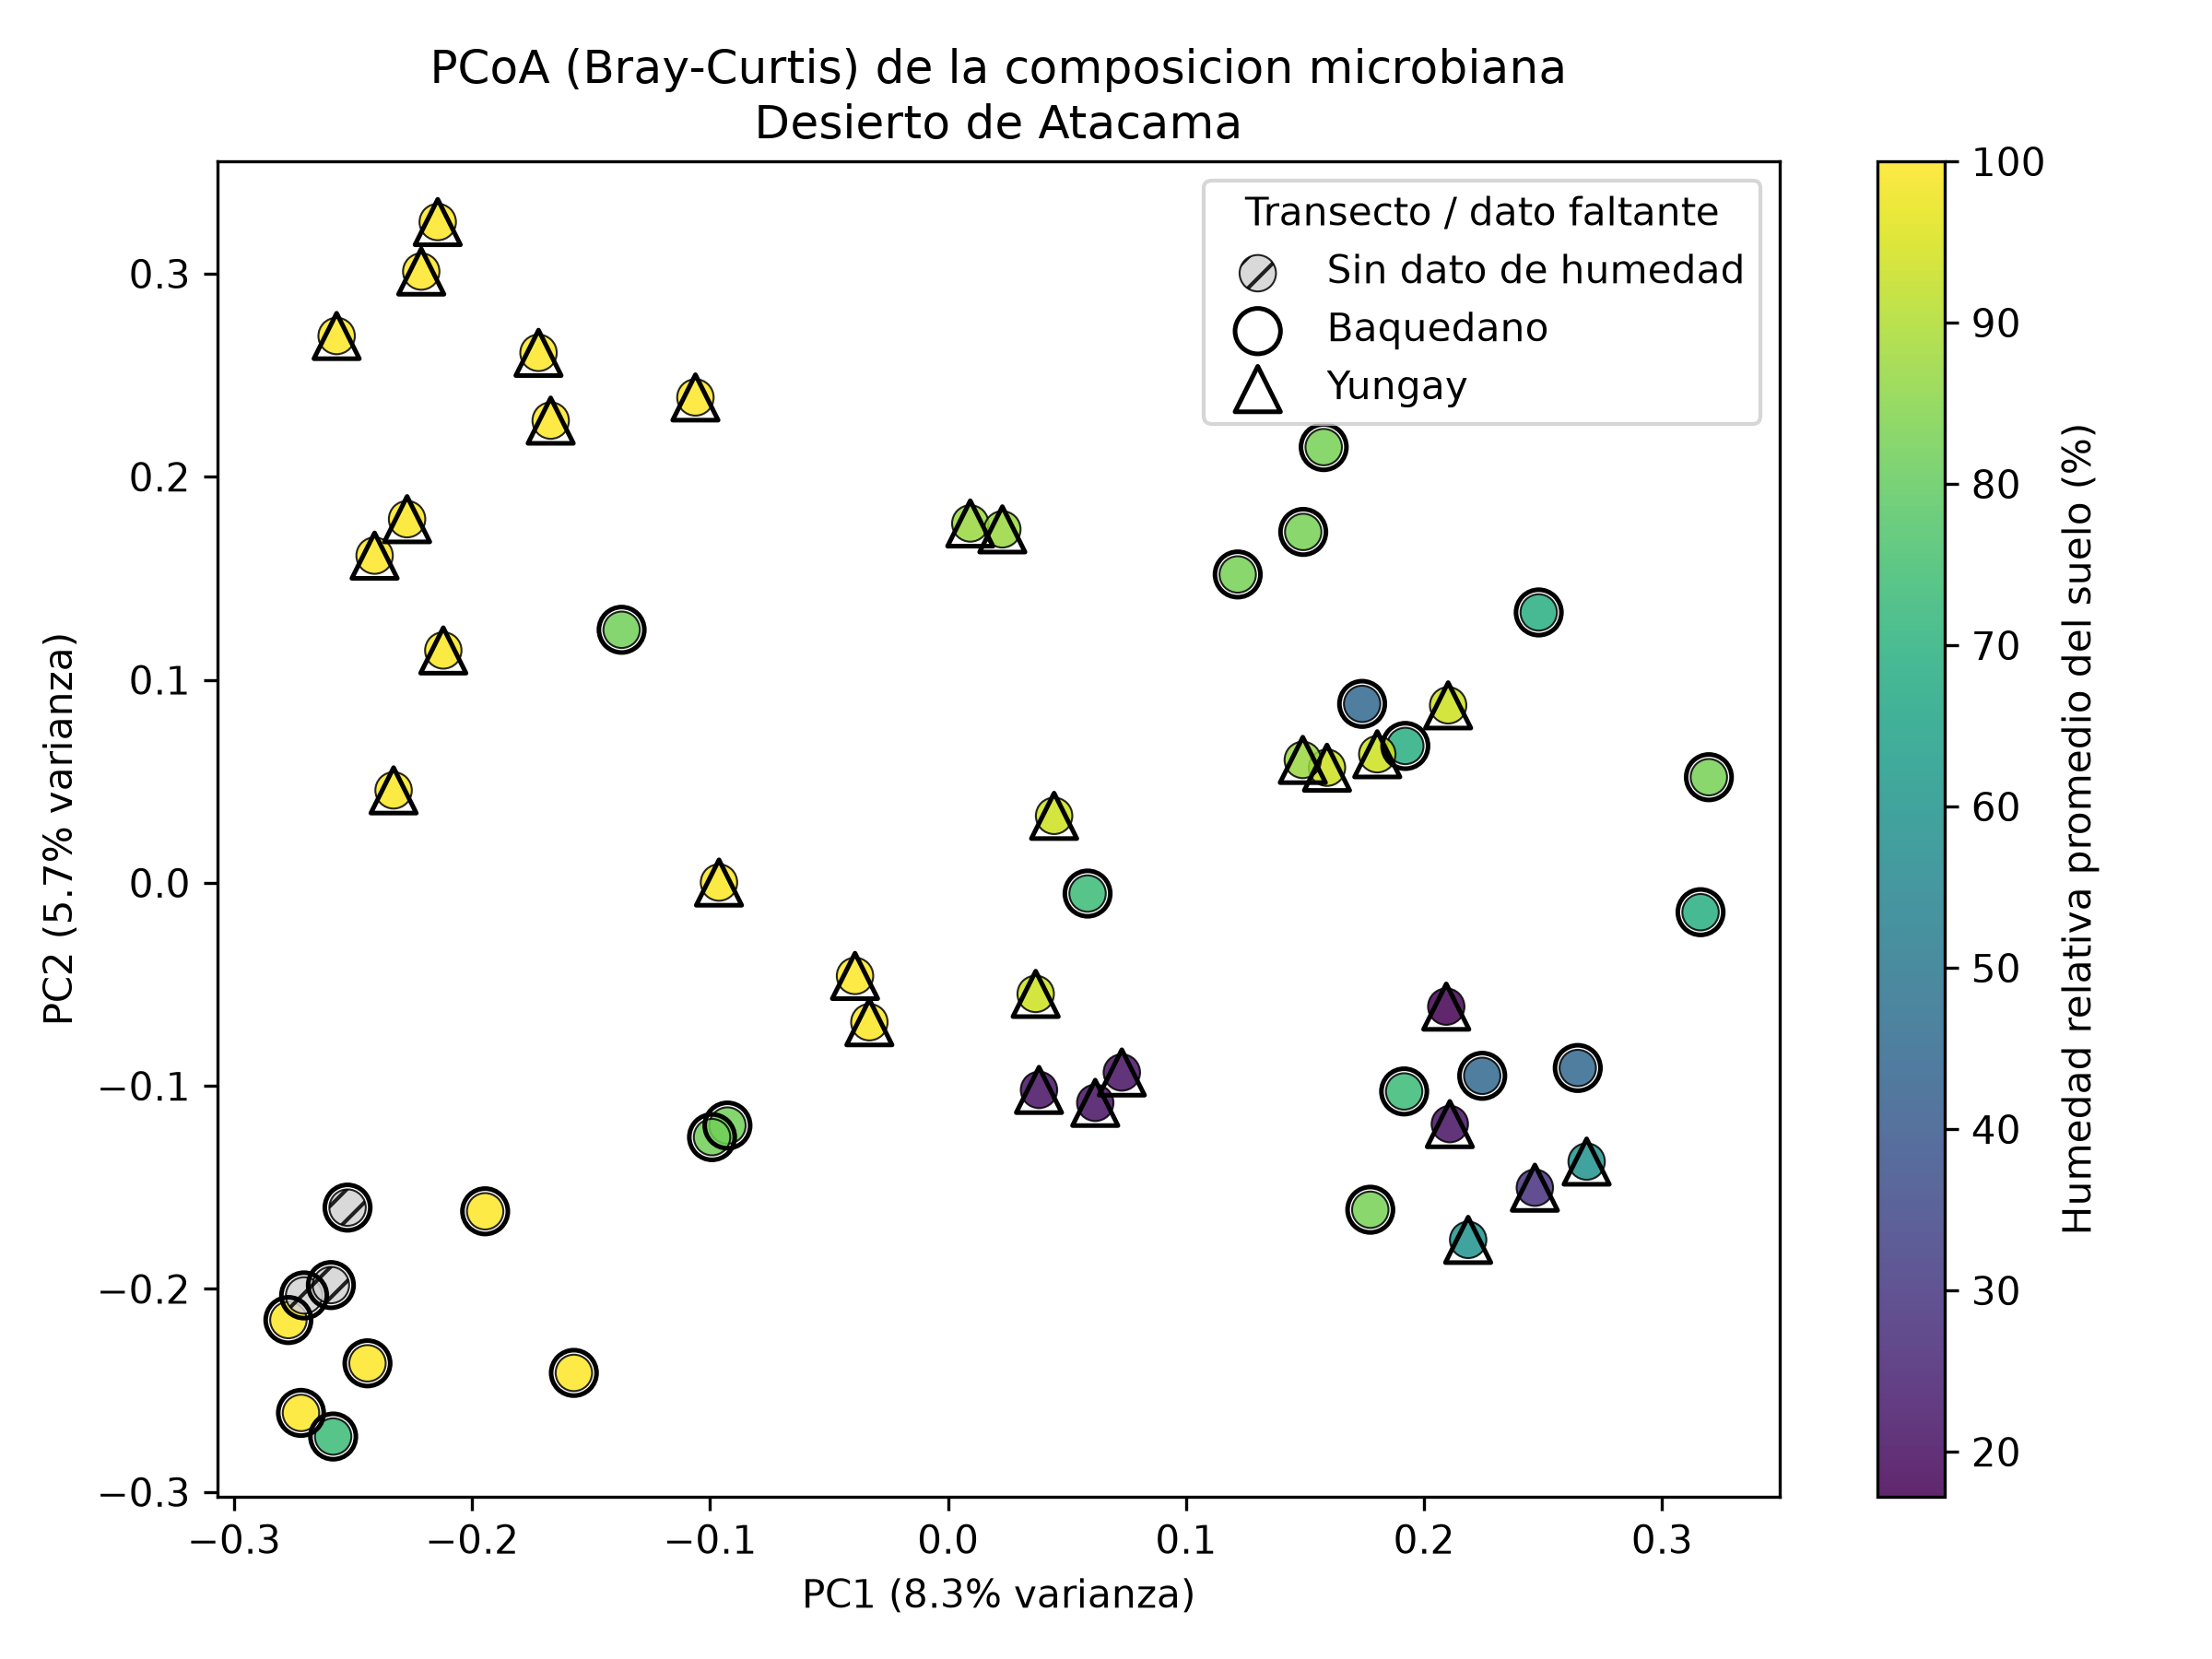
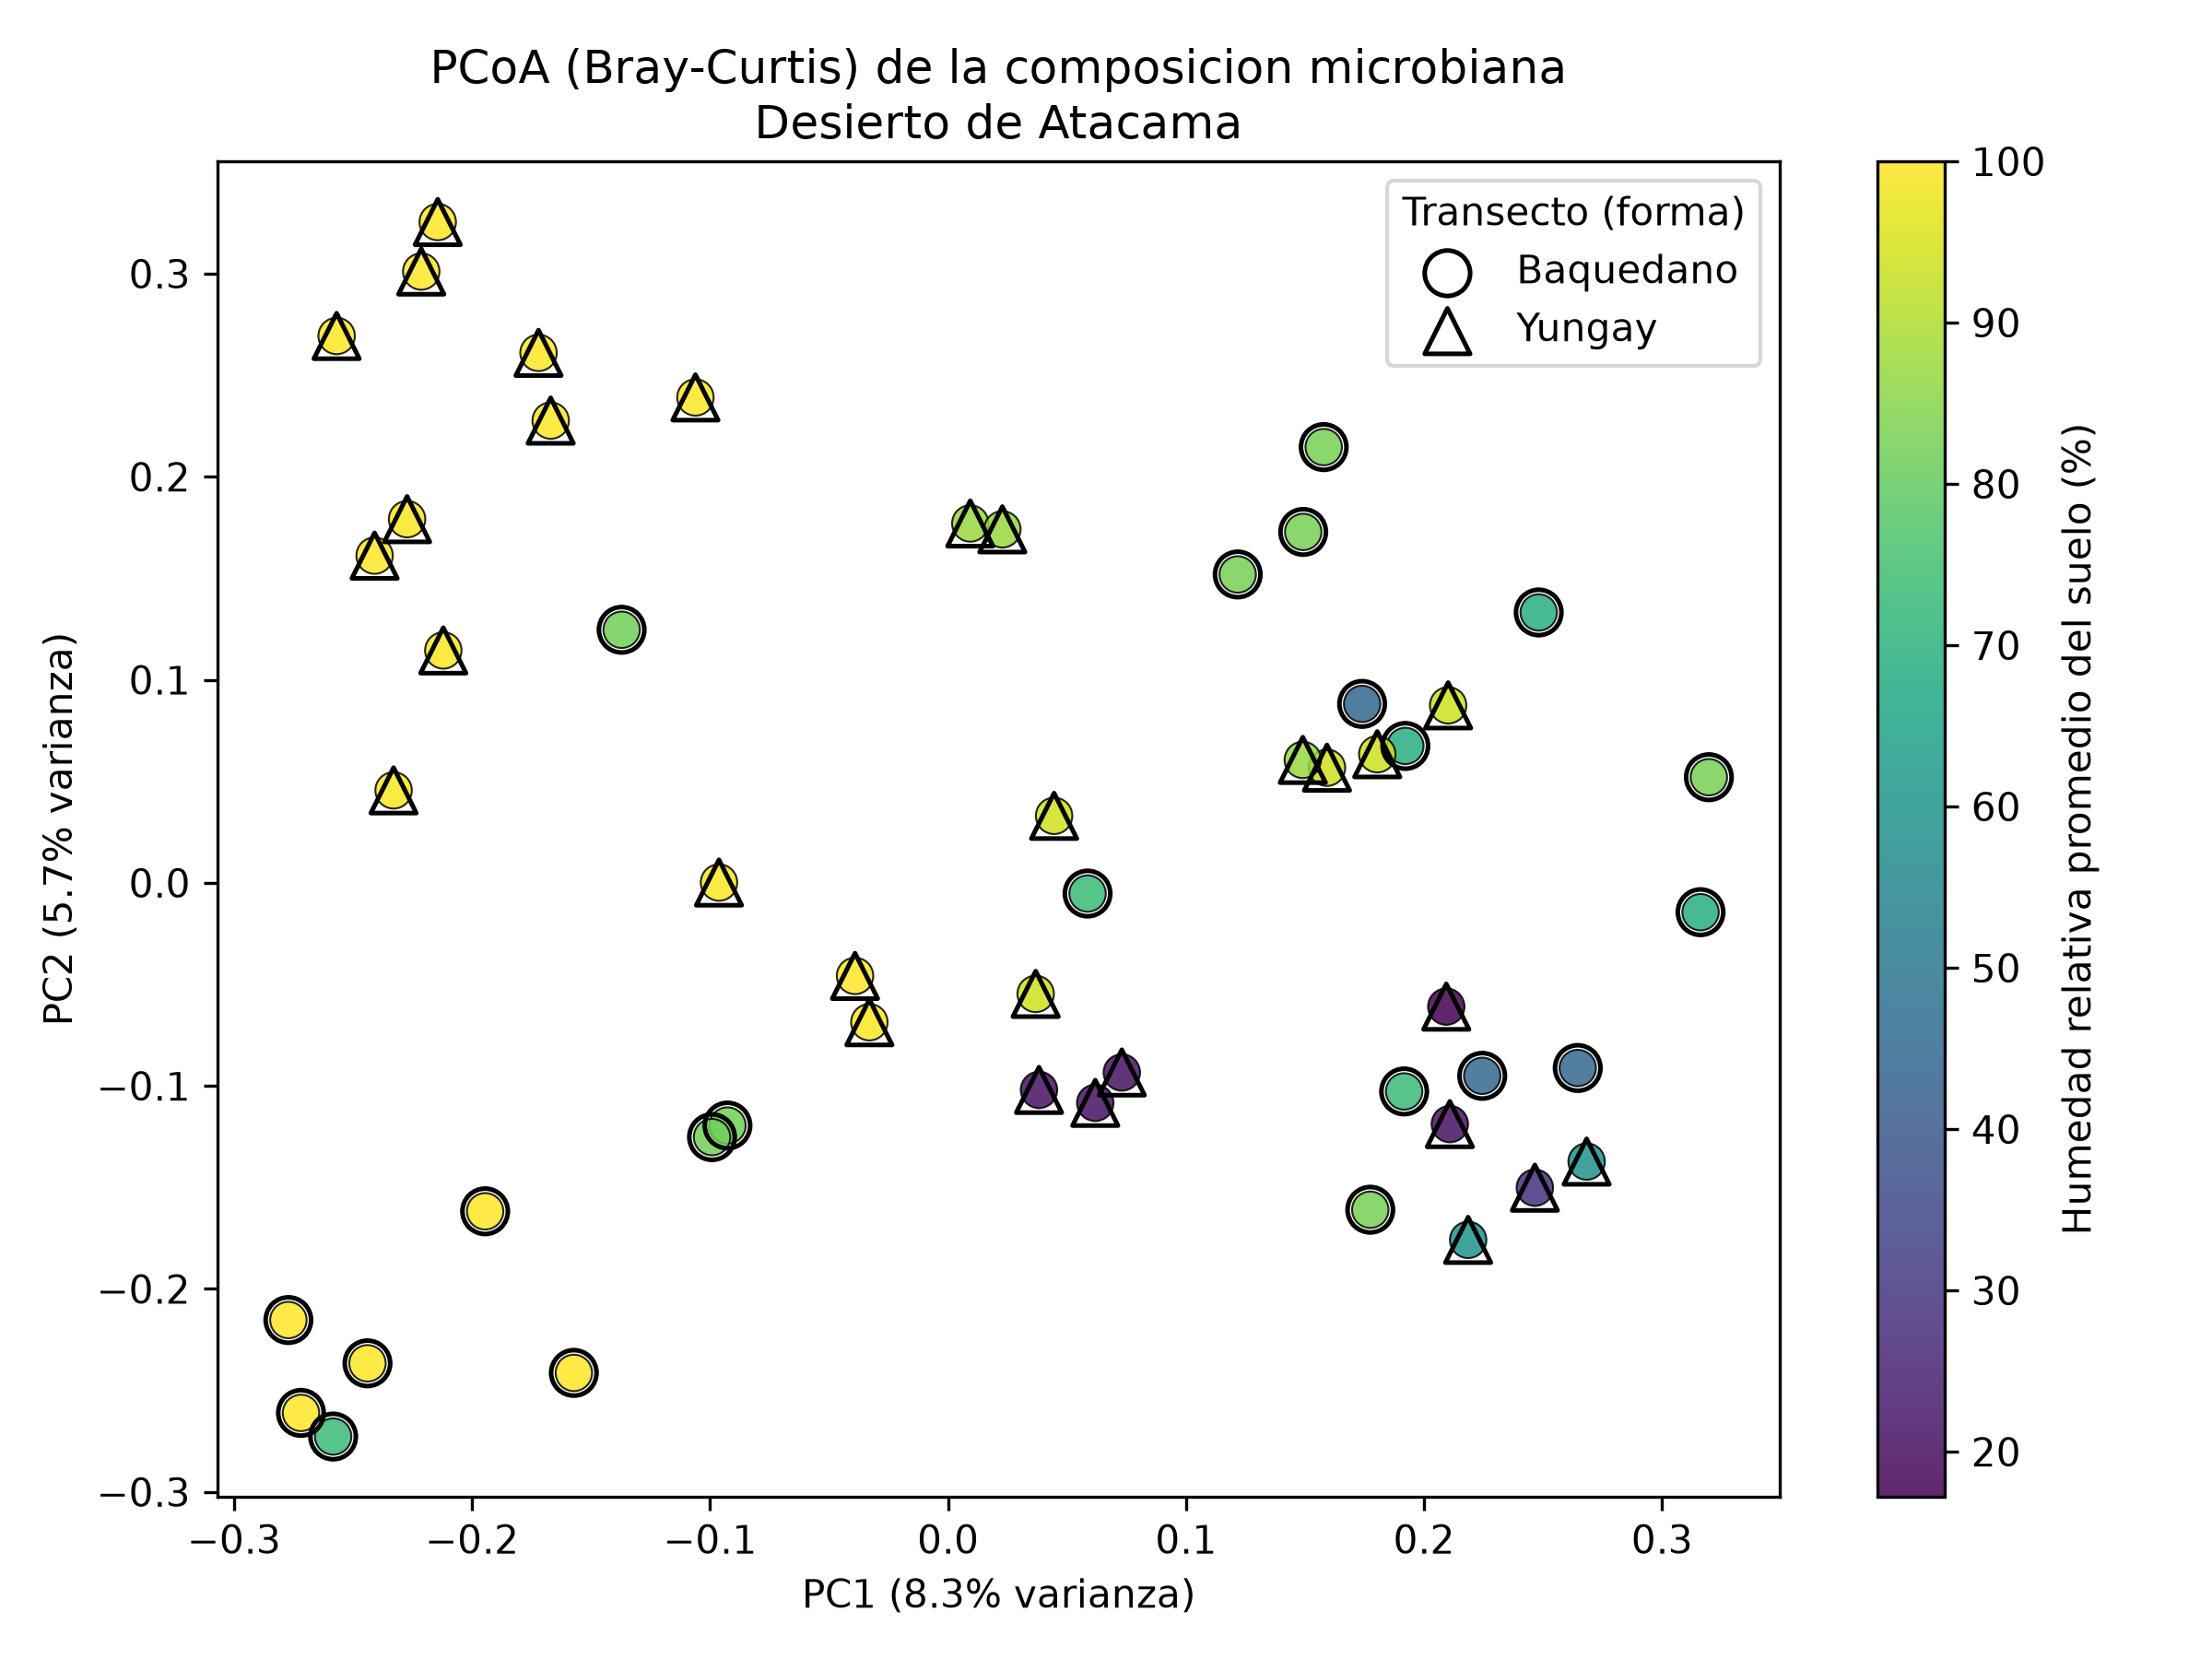
Excluye muestras sin dato de humedad de la figura de PCoA (H2)
Las 3 muestras de Baquedano sin average-soil-relative-humidity ya
no se grafican en fig2_pcoa_braycurtis (no se pueden colorear por
el gradiente y entorpecian la lectura), aunque siguen participando
en el calculo de la ordenacion. Actualiza el HTML explicativo con
la figura corregida.

Changed region(s): [[0.5312, 0.0933, 0.7812, 0.2489], [0.125, 0.7156, 0.1875, 0.8089]]

diff --git a/solution.py b/solution.py
@@ -299,39 +299,37 @@ def graficar_pcoa(coordenadas, metadata, porcentaje_varianza):
     Color: gradiente continuo de humedad relativa del suelo
     (paleta viridis). Forma: transecto (Baquedano vs Yungay), para
     evaluar visualmente la hipotesis H2.
+
+    Las muestras sin dato de humedad no se grafican (no se pueden
+    colorear por el gradiente y solo entorpecen la lectura de la
+    figura), aunque si participaron en el calculo del PCoA.
     """
     datos = coordenadas.join(metadata)
     columna_humedad = "average-soil-relative-humidity"
-    con_humedad = datos[datos[columna_humedad].notna()]
-    sin_humedad = datos[datos[columna_humedad].isna()]
+    n_excluidas = datos[columna_humedad].isna().sum()
+    datos = datos[datos[columna_humedad].notna()]
+
+    if n_excluidas > 0:
+        print(
+            f"\n  AVISO: {n_excluidas} muestra(s) sin dato de "
+            "humedad relativa del suelo - se excluyen solo de "
+            "la figura de PCoA (no del calculo de la ordenacion)."
+        )
 
     fig, ax = plt.subplots(figsize=(8, 6))
 
     marcadores = {"Baquedano": "o", "Yungay": "^"}
 
     dispersión = ax.scatter(
-        con_humedad["PC1"],
-        con_humedad["PC2"],
-        c=con_humedad[columna_humedad],
+        datos["PC1"],
+        datos["PC2"],
+        c=datos[columna_humedad],
         cmap="viridis",
         s=90,
         alpha=0.85,
         edgecolor="black",
         linewidth=0.5,
     )
-
-    if len(sin_humedad) > 0:
-        ax.scatter(
-            sin_humedad["PC1"],
-            sin_humedad["PC2"],
-            facecolor="#d3d3d3",
-            hatch="///",
-            s=90,
-            alpha=0.85,
-            edgecolor="black",
-            linewidth=0.5,
-            label="Sin dato de humedad",
-        )
 
     for transecto, marcador in marcadores.items():
         subconjunto = datos[datos["transect-name"] == transecto]
@@ -357,7 +355,7 @@ def graficar_pcoa(coordenadas, metadata, porcentaje_varianza):
         "PCoA (Bray-Curtis) de la composicion microbiana\n"
         "Desierto de Atacama"
     )
-    ax.legend(title="Transecto / dato faltante", loc="best")
+    ax.legend(title="Transecto (forma)", loc="best")
 
     fig.tight_layout()
     fig.savefig(